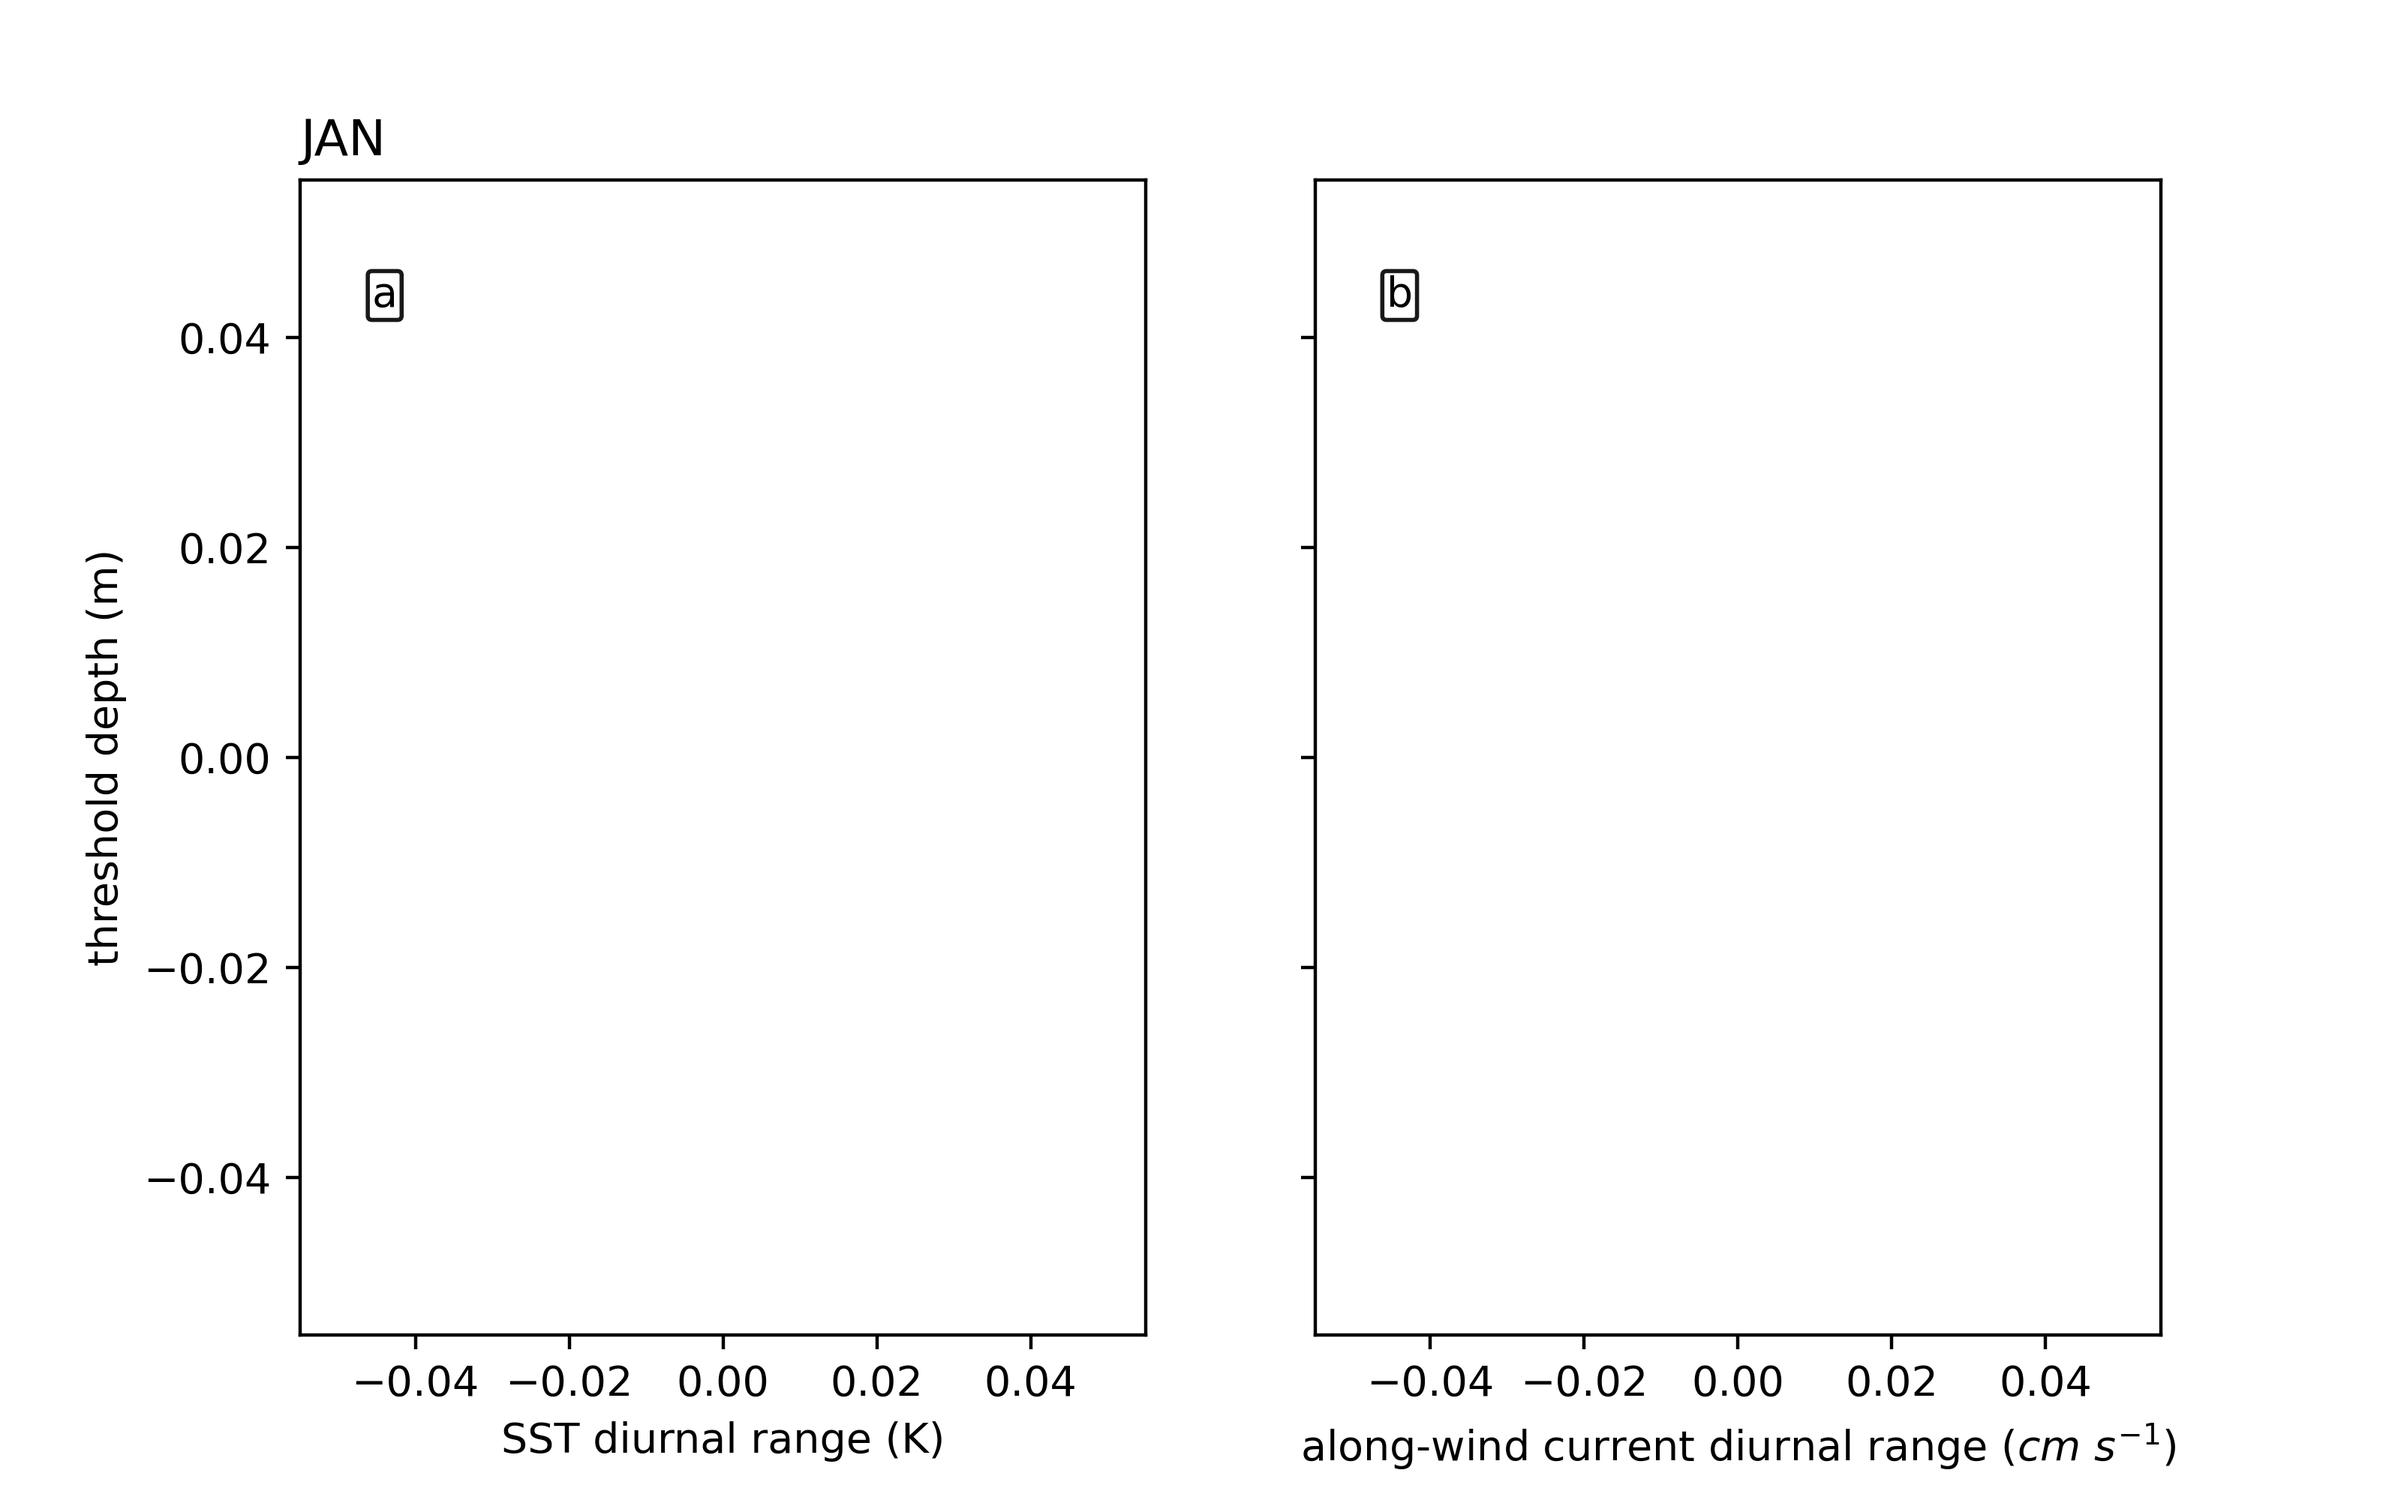
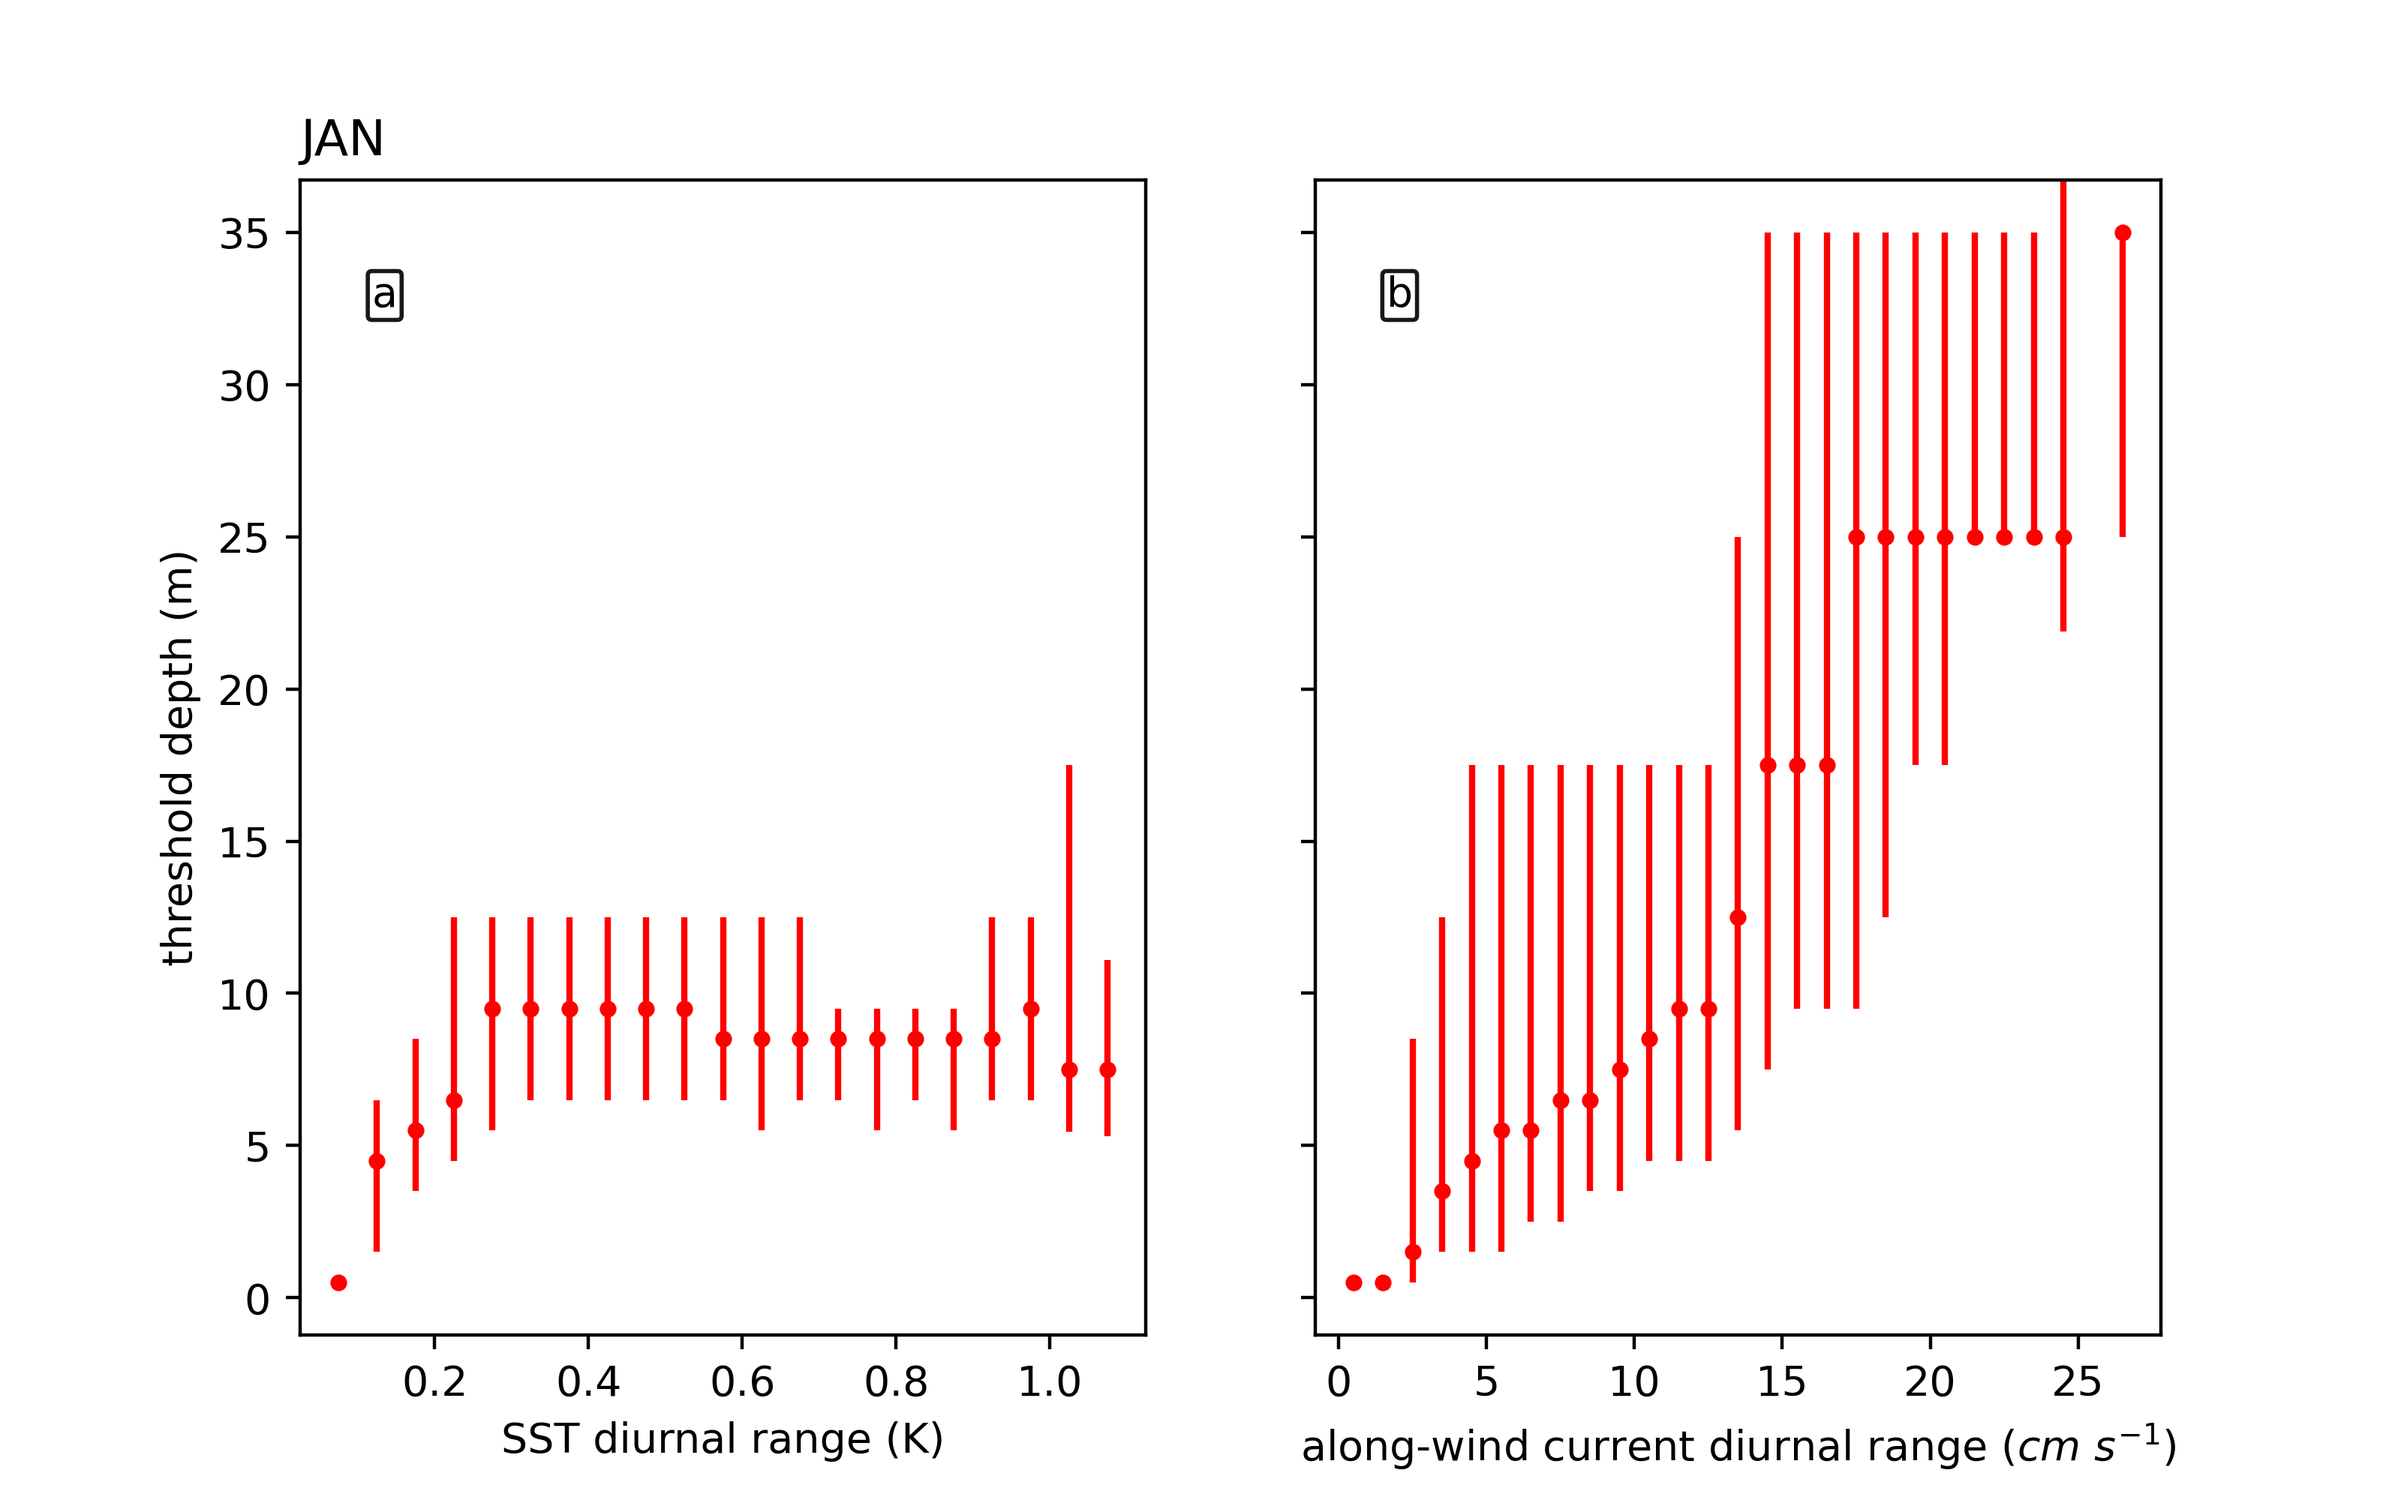
Updates scatter plots.

diff --git a/diurnal_cycle/analysis/surface_threshdepth_scatter.py b/diurnal_cycle/analysis/surface_threshdepth_scatter.py
@@ -120,7 +120,7 @@ def main(plot_month):
                 xcl[ids], yml[ids],
                 yerr=[yml[ids] - y5l[ids],
                       y95l[ids] - yml[ids]],
-                fmt='none', ecolor=col_list[ids],
+                fmt='r.', ecolor=col_list[ids],
                 label=label_list[ids]
             )
     """
